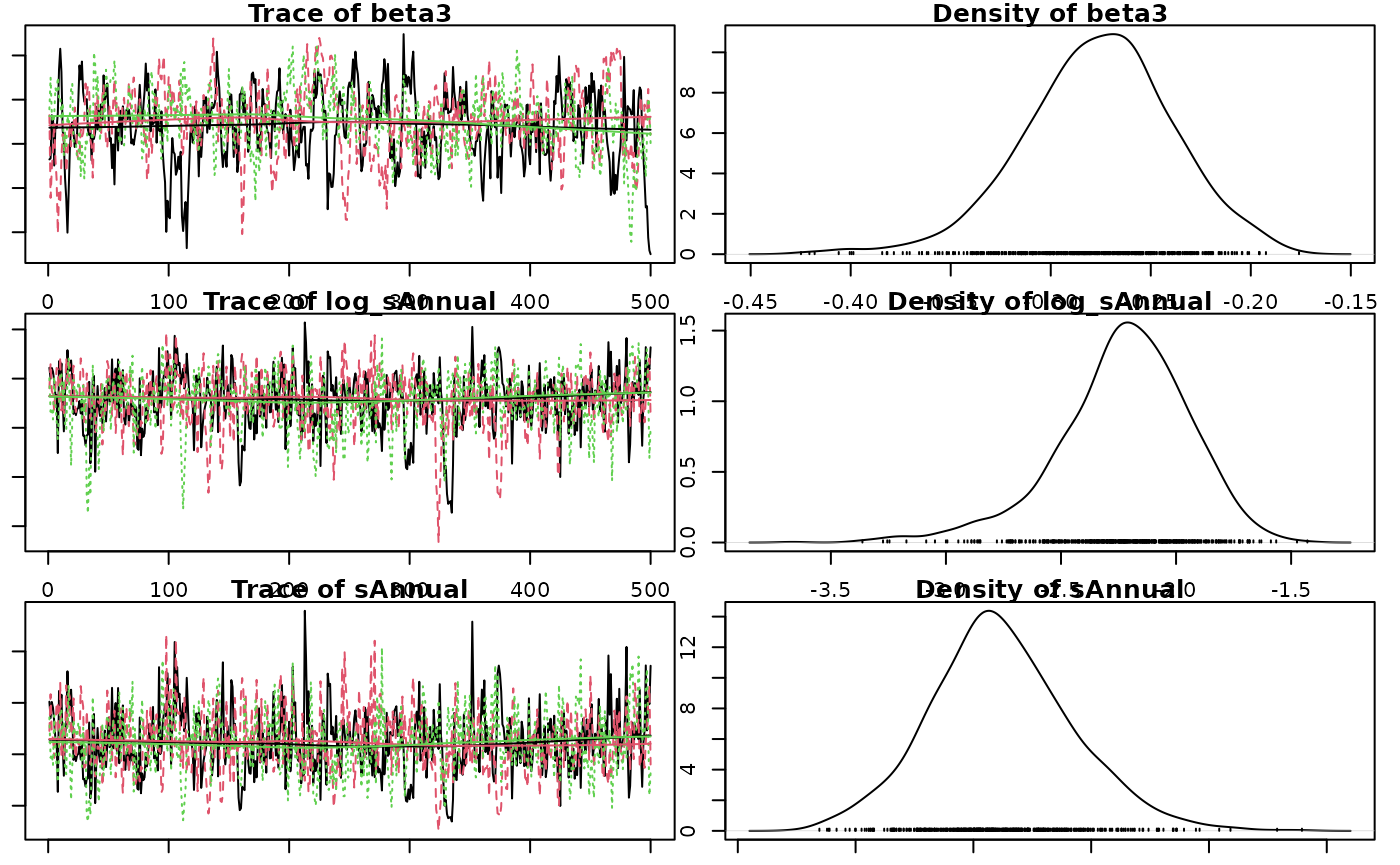
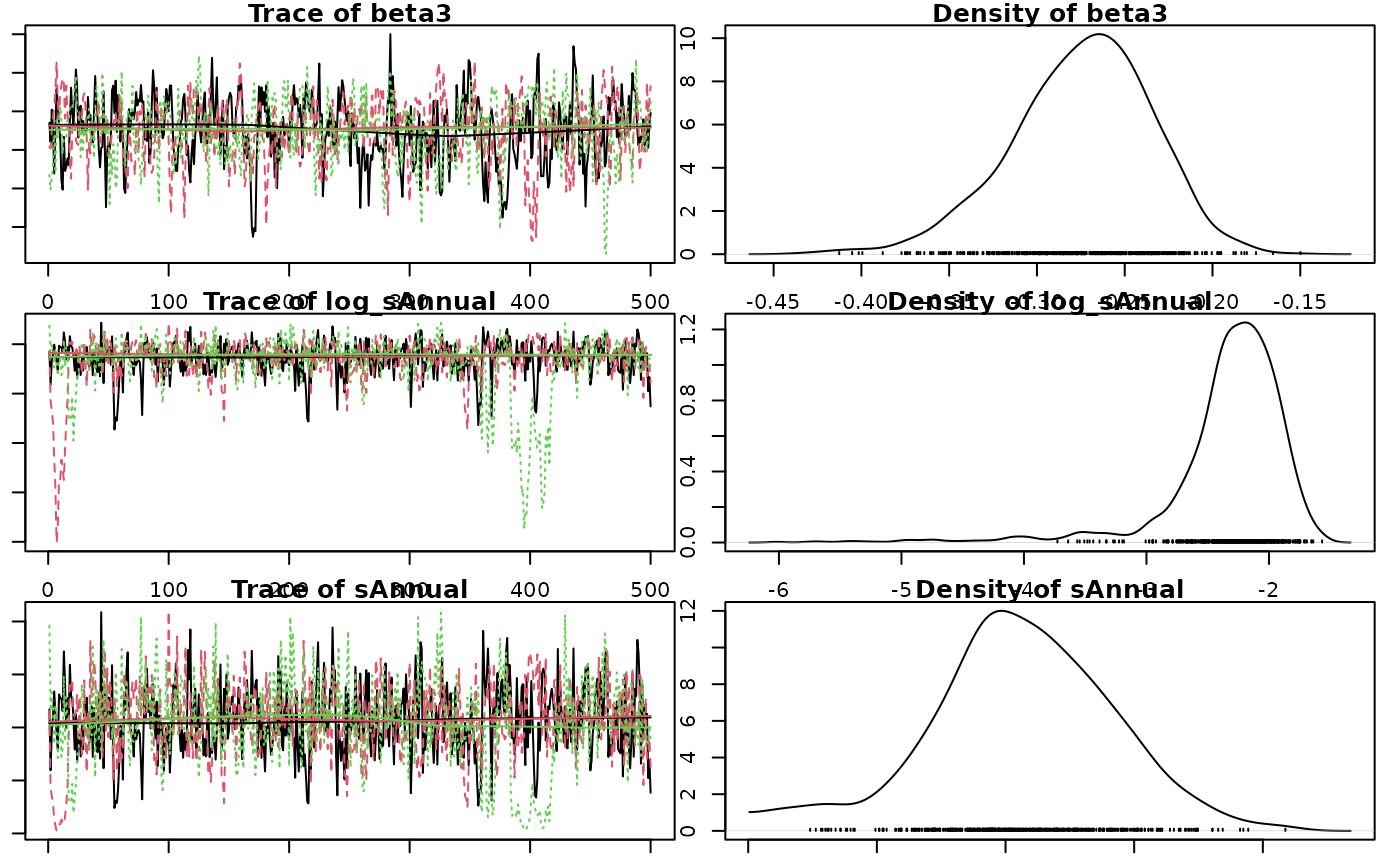
Built site for jmbr@0.0.0.9121: c901a26

diff --git a/articles/jmbr.html b/articles/jmbr.html
@@ -32,7 +32,7 @@
       </button>
       <span class="navbar-brand">
         <a class="navbar-link" href="../index.html">jmbr</a>
-        <span class="version label label-default" data-toggle="tooltip" data-placement="bottom" title="">0.0.0.9120</span>
+        <span class="version label label-default" data-toggle="tooltip" data-placement="bottom" title="">0.0.0.9121</span>
       </span>
     </div>
 
@@ -300,14 +300,14 @@ value and discarding all other values.</p>
 <span><span class="co">#&gt; <span style="color: #949494;"># A tibble: 1 × 8</span></span></span>
 <span><span class="co">#&gt;       n     K nchains niters nthin   ess  rhat converged</span></span>
 <span><span class="co">#&gt;   <span style="color: #949494; font-style: italic;">&lt;int&gt;</span> <span style="color: #949494; font-style: italic;">&lt;int&gt;</span>   <span style="color: #949494; font-style: italic;">&lt;int&gt;</span>  <span style="color: #949494; font-style: italic;">&lt;int&gt;</span> <span style="color: #949494; font-style: italic;">&lt;int&gt;</span> <span style="color: #949494; font-style: italic;">&lt;int&gt;</span> <span style="color: #949494; font-style: italic;">&lt;dbl&gt;</span> <span style="color: #949494; font-style: italic;">&lt;lgl&gt;</span>    </span></span>
-<span><span class="co">#&gt; <span style="color: #BCBCBC;">1</span>    40     6       3    500    10   219  1.01 TRUE</span></span>
+<span><span class="co">#&gt; <span style="color: #BCBCBC;">1</span>    40     6       3    500    10   134  1.02 FALSE</span></span>
 <span><span class="co">#&gt; Warning in value[[3L]](cond): beep() could not play the sound due to the following error:</span></span>
 <span><span class="co">#&gt; Error in play.default(x, rate, ...): no audio drivers are available</span></span>
 <span><span class="va">analysis</span> <span class="op">&lt;-</span> <span class="fu"><a href="https://rdrr.io/pkg/embr/man/reanalyse.html" class="external-link">reanalyse</a></span><span class="op">(</span><span class="va">analysis</span><span class="op">)</span></span>
 <span><span class="co">#&gt; <span style="color: #949494;"># A tibble: 1 × 8</span></span></span>
 <span><span class="co">#&gt;       n     K nchains niters nthin   ess  rhat converged</span></span>
 <span><span class="co">#&gt;   <span style="color: #949494; font-style: italic;">&lt;int&gt;</span> <span style="color: #949494; font-style: italic;">&lt;int&gt;</span>   <span style="color: #949494; font-style: italic;">&lt;int&gt;</span>  <span style="color: #949494; font-style: italic;">&lt;int&gt;</span> <span style="color: #949494; font-style: italic;">&lt;int&gt;</span> <span style="color: #949494; font-style: italic;">&lt;int&gt;</span> <span style="color: #949494; font-style: italic;">&lt;dbl&gt;</span> <span style="color: #949494; font-style: italic;">&lt;lgl&gt;</span>    </span></span>
-<span><span class="co">#&gt; <span style="color: #BCBCBC;">1</span>    40     6       3    500    10   219  1.01 TRUE</span></span>
+<span><span class="co">#&gt; <span style="color: #BCBCBC;">1</span>    40     6       3    500    20   291  1.02 TRUE</span></span>
 <span><span class="co">#&gt; Warning in value[[3L]](cond): beep() could not play the sound due to the following error:</span></span>
 <span><span class="co">#&gt; Error in play.default(x, rate, ...): no audio drivers are available</span></span></code></pre></div>
 <p><strong>Analysis Table:</strong></p>
@@ -357,12 +357,12 @@ between- and within-chain estimates for model parameters.
 <span><span class="co">#&gt; <span style="color: #949494;"># A tibble: 6 × 7</span></span></span>
 <span><span class="co">#&gt;   term        estimate     sd  zscore   lower   upper   pvalue</span></span>
 <span><span class="co">#&gt;   <span style="color: #949494; font-style: italic;">&lt;term&gt;</span>         <span style="color: #949494; font-style: italic;">&lt;dbl&gt;</span>  <span style="color: #949494; font-style: italic;">&lt;dbl&gt;</span>   <span style="color: #949494; font-style: italic;">&lt;dbl&gt;</span>   <span style="color: #949494; font-style: italic;">&lt;dbl&gt;</span>   <span style="color: #949494; font-style: italic;">&lt;dbl&gt;</span>    <span style="color: #949494; font-style: italic;">&lt;dbl&gt;</span></span></span>
-<span><span class="co">#&gt; <span style="color: #BCBCBC;">1</span> alpha         4.26   0.039<span style="text-decoration: underline;">8</span> 107.     4.18    4.34   0.000<span style="text-decoration: underline;">666</span></span></span>
-<span><span class="co">#&gt; <span style="color: #BCBCBC;">2</span> beta1         1.20   0.074<span style="text-decoration: underline;">8</span>  16.1    1.07    1.36   0.000<span style="text-decoration: underline;">666</span></span></span>
-<span><span class="co">#&gt; <span style="color: #BCBCBC;">3</span> beta2        -<span style="color: #BB0000;">0.018</span><span style="color: #BB0000; text-decoration: underline;">7</span> 0.029<span style="text-decoration: underline;">9</span>  -<span style="color: #BB0000;">0.614</span> -<span style="color: #BB0000;">0.074</span><span style="color: #BB0000; text-decoration: underline;">5</span>  0.041<span style="text-decoration: underline;">2</span> 0.540   </span></span>
-<span><span class="co">#&gt; <span style="color: #BCBCBC;">4</span> beta3        -<span style="color: #BB0000;">0.275</span>  0.037<span style="text-decoration: underline;">6</span>  -<span style="color: #BB0000;">7.35</span>  -<span style="color: #BB0000;">0.355</span>  -<span style="color: #BB0000;">0.204</span>  0.000<span style="text-decoration: underline;">666</span></span></span>
-<span><span class="co">#&gt; <span style="color: #BCBCBC;">5</span> log_sAnnual  -<span style="color: #BB0000;">2.21</span>   0.290   -<span style="color: #BB0000;">7.69</span>  -<span style="color: #BB0000;">2.91</span>   -<span style="color: #BB0000;">1.74</span>   0.000<span style="text-decoration: underline;">666</span></span></span>
-<span><span class="co">#&gt; <span style="color: #BCBCBC;">6</span> sAnnual       0.110  0.030<span style="text-decoration: underline;">3</span>   3.69   0.054<span style="text-decoration: underline;">7</span>  0.175  0.000<span style="text-decoration: underline;">666</span></span></span></code></pre></div>
+<span><span class="co">#&gt; <span style="color: #BCBCBC;">1</span> alpha         4.26   0.038<span style="text-decoration: underline;">8</span> 110.     4.18    4.34   0.000<span style="text-decoration: underline;">666</span></span></span>
+<span><span class="co">#&gt; <span style="color: #BCBCBC;">2</span> beta1         1.19   0.078<span style="text-decoration: underline;">6</span>  15.2    1.06    1.37   0.000<span style="text-decoration: underline;">666</span></span></span>
+<span><span class="co">#&gt; <span style="color: #BCBCBC;">3</span> beta2        -<span style="color: #BB0000;">0.017</span><span style="color: #BB0000; text-decoration: underline;">7</span> 0.030<span style="text-decoration: underline;">0</span>  -<span style="color: #BB0000;">0.605</span> -<span style="color: #BB0000;">0.077</span><span style="color: #BB0000; text-decoration: underline;">2</span>  0.040<span style="text-decoration: underline;">1</span> 0.543   </span></span>
+<span><span class="co">#&gt; <span style="color: #BCBCBC;">4</span> beta3        -<span style="color: #BB0000;">0.272</span>  0.040<span style="text-decoration: underline;">1</span>  -<span style="color: #BB0000;">6.85</span>  -<span style="color: #BB0000;">0.360</span>  -<span style="color: #BB0000;">0.205</span>  0.000<span style="text-decoration: underline;">666</span></span></span>
+<span><span class="co">#&gt; <span style="color: #BCBCBC;">5</span> log_sAnnual  -<span style="color: #BB0000;">2.25</span>   0.511   -<span style="color: #BB0000;">4.57</span>  -<span style="color: #BB0000;">3.87</span>   -<span style="color: #BB0000;">1.75</span>   0.000<span style="text-decoration: underline;">666</span></span></span>
+<span><span class="co">#&gt; <span style="color: #BCBCBC;">6</span> sAnnual       0.106  0.036<span style="text-decoration: underline;">0</span>   2.94   0.020<span style="text-decoration: underline;">8</span>  0.174  0.000<span style="text-decoration: underline;">666</span></span></span></code></pre></div>
 <p>The estimate is the <strong>median</strong> by default.</p>
 <p>The zscore is
 <math display="inline" xmlns="http://www.w3.org/1998/Math/MathML"><semantics><mrow><mi>m</mi><mi>e</mi><mi>a</mi><mi>n</mi><mi>/</mi><mi>s</mi><mi>d</mi></mrow><annotation encoding="application/x-tex">mean / sd</annotation></semantics></math>.</p>
@@ -372,11 +372,11 @@ between- and within-chain estimates for model parameters.
 <span><span class="co">#&gt;   term        estimate   lower   upper svalue</span></span>
 <span><span class="co">#&gt;   <span style="color: #949494; font-style: italic;">&lt;term&gt;</span>         <span style="color: #949494; font-style: italic;">&lt;dbl&gt;</span>   <span style="color: #949494; font-style: italic;">&lt;dbl&gt;</span>   <span style="color: #949494; font-style: italic;">&lt;dbl&gt;</span>  <span style="color: #949494; font-style: italic;">&lt;dbl&gt;</span></span></span>
 <span><span class="co">#&gt; <span style="color: #BCBCBC;">1</span> alpha         4.26    4.18    4.34   10.6  </span></span>
-<span><span class="co">#&gt; <span style="color: #BCBCBC;">2</span> beta1         1.20    1.07    1.36   10.6  </span></span>
-<span><span class="co">#&gt; <span style="color: #BCBCBC;">3</span> beta2        -<span style="color: #BB0000;">0.018</span><span style="color: #BB0000; text-decoration: underline;">7</span> -<span style="color: #BB0000;">0.074</span><span style="color: #BB0000; text-decoration: underline;">5</span>  0.041<span style="text-decoration: underline;">2</span>  0.888</span></span>
-<span><span class="co">#&gt; <span style="color: #BCBCBC;">4</span> beta3        -<span style="color: #BB0000;">0.275</span>  -<span style="color: #BB0000;">0.355</span>  -<span style="color: #BB0000;">0.204</span>  10.6  </span></span>
-<span><span class="co">#&gt; <span style="color: #BCBCBC;">5</span> log_sAnnual  -<span style="color: #BB0000;">2.21</span>   -<span style="color: #BB0000;">2.91</span>   -<span style="color: #BB0000;">1.74</span>   10.6  </span></span>
-<span><span class="co">#&gt; <span style="color: #BCBCBC;">6</span> sAnnual       0.110   0.054<span style="text-decoration: underline;">7</span>  0.175  10.6</span></span></code></pre></div>
+<span><span class="co">#&gt; <span style="color: #BCBCBC;">2</span> beta1         1.19    1.06    1.37   10.6  </span></span>
+<span><span class="co">#&gt; <span style="color: #BCBCBC;">3</span> beta2        -<span style="color: #BB0000;">0.017</span><span style="color: #BB0000; text-decoration: underline;">7</span> -<span style="color: #BB0000;">0.077</span><span style="color: #BB0000; text-decoration: underline;">2</span>  0.040<span style="text-decoration: underline;">1</span>  0.881</span></span>
+<span><span class="co">#&gt; <span style="color: #BCBCBC;">4</span> beta3        -<span style="color: #BB0000;">0.272</span>  -<span style="color: #BB0000;">0.360</span>  -<span style="color: #BB0000;">0.205</span>  10.6  </span></span>
+<span><span class="co">#&gt; <span style="color: #BCBCBC;">5</span> log_sAnnual  -<span style="color: #BB0000;">2.25</span>   -<span style="color: #BB0000;">3.87</span>   -<span style="color: #BB0000;">1.75</span>   10.6  </span></span>
+<span><span class="co">#&gt; <span style="color: #BCBCBC;">6</span> sAnnual       0.106   0.020<span style="text-decoration: underline;">8</span>  0.174  10.6</span></span></code></pre></div>
 <p>The s-value is the <strong>suprisal</strong> value, which is a
 measure of directionality with respect to zero.</p>
 <p>The s-value is zero (unsurprising) when <em>p-value</em> = 1.0 and

diff --git a/news/index.html b/news/index.html
@@ -17,7 +17,7 @@
       </button>
       <span class="navbar-brand">
         <a class="navbar-link" href="../index.html">jmbr</a>
-        <span class="version label label-default" data-toggle="tooltip" data-placement="bottom" title="">0.0.0.9120</span>
+        <span class="version label label-default" data-toggle="tooltip" data-placement="bottom" title="">0.0.0.9121</span>
       </span>
     </div>
 
@@ -50,6 +50,10 @@
       <small>Source: <a href="https://github.com/poissonconsulting/jmbr/blob/main/NEWS.md" class="external-link"><code>NEWS.md</code></a></small>
     </div>
 
+    <div class="section level2">
+<h2 class="page-header" data-toc-text="0.0.0.9121" id="jmbr-0009121-2024-11-02">jmbr 0.0.0.9121 (2024-11-02)<a class="anchor" aria-label="anchor" href="#jmbr-0009121-2024-11-02"></a></h2>
+<ul><li>Internal changes only.</li>
+</ul></div>
     <div class="section level2">
 <h2 class="page-header" data-toc-text="0.0.0.9120" id="jmbr-0009120-2024-10-28">jmbr 0.0.0.9120 (2024-10-28)<a class="anchor" aria-label="anchor" href="#jmbr-0009120-2024-10-28"></a></h2>
 <div class="section level3">

diff --git a/articles/index.html b/articles/index.html
@@ -17,7 +17,7 @@
       </button>
       <span class="navbar-brand">
         <a class="navbar-link" href="../index.html">jmbr</a>
-        <span class="version label label-default" data-toggle="tooltip" data-placement="bottom" title="">0.0.0.9120</span>
+        <span class="version label label-default" data-toggle="tooltip" data-placement="bottom" title="">0.0.0.9121</span>
       </span>
     </div>
 

diff --git a/reference/index.html b/reference/index.html
@@ -17,7 +17,7 @@
       </button>
       <span class="navbar-brand">
         <a class="navbar-link" href="../index.html">jmbr</a>
-        <span class="version label label-default" data-toggle="tooltip" data-placement="bottom" title="">0.0.0.9120</span>
+        <span class="version label label-default" data-toggle="tooltip" data-placement="bottom" title="">0.0.0.9121</span>
       </span>
     </div>
 

diff --git a/reference/is.jmb_analysis.html b/reference/is.jmb_analysis.html
@@ -17,7 +17,7 @@
       </button>
       <span class="navbar-brand">
         <a class="navbar-link" href="../index.html">jmbr</a>
-        <span class="version label label-default" data-toggle="tooltip" data-placement="bottom" title="">0.0.0.9120</span>
+        <span class="version label label-default" data-toggle="tooltip" data-placement="bottom" title="">0.0.0.9121</span>
       </span>
     </div>
 

diff --git a/reference/is.jmb_code.html b/reference/is.jmb_code.html
@@ -17,7 +17,7 @@
       </button>
       <span class="navbar-brand">
         <a class="navbar-link" href="../index.html">jmbr</a>
-        <span class="version label label-default" data-toggle="tooltip" data-placement="bottom" title="">0.0.0.9120</span>
+        <span class="version label label-default" data-toggle="tooltip" data-placement="bottom" title="">0.0.0.9121</span>
       </span>
     </div>
 

diff --git a/reference/is.jmb_model.html b/reference/is.jmb_model.html
@@ -17,7 +17,7 @@
       </button>
       <span class="navbar-brand">
         <a class="navbar-link" href="../index.html">jmbr</a>
-        <span class="version label label-default" data-toggle="tooltip" data-placement="bottom" title="">0.0.0.9120</span>
+        <span class="version label label-default" data-toggle="tooltip" data-placement="bottom" title="">0.0.0.9121</span>
       </span>
     </div>
 

diff --git a/reference/jmbr-package.html b/reference/jmbr-package.html
@@ -17,7 +17,7 @@
       </button>
       <span class="navbar-brand">
         <a class="navbar-link" href="../index.html">jmbr</a>
-        <span class="version label label-default" data-toggle="tooltip" data-placement="bottom" title="">0.0.0.9120</span>
+        <span class="version label label-default" data-toggle="tooltip" data-placement="bottom" title="">0.0.0.9121</span>
       </span>
     </div>
 

diff --git a/404.html b/404.html
@@ -32,7 +32,7 @@
       </button>
       <span class="navbar-brand">
         <a class="navbar-link" href="index.html">jmbr</a>
-        <span class="version label label-default" data-toggle="tooltip" data-placement="bottom" title="">0.0.0.9120</span>
+        <span class="version label label-default" data-toggle="tooltip" data-placement="bottom" title="">0.0.0.9121</span>
       </span>
     </div>
 

diff --git a/CODE_OF_CONDUCT.html b/CODE_OF_CONDUCT.html
@@ -17,7 +17,7 @@
       </button>
       <span class="navbar-brand">
         <a class="navbar-link" href="index.html">jmbr</a>
-        <span class="version label label-default" data-toggle="tooltip" data-placement="bottom" title="">0.0.0.9120</span>
+        <span class="version label label-default" data-toggle="tooltip" data-placement="bottom" title="">0.0.0.9121</span>
       </span>
     </div>
 

diff --git a/CONTRIBUTING.html b/CONTRIBUTING.html
@@ -17,7 +17,7 @@
       </button>
       <span class="navbar-brand">
         <a class="navbar-link" href="index.html">jmbr</a>
-        <span class="version label label-default" data-toggle="tooltip" data-placement="bottom" title="">0.0.0.9120</span>
+        <span class="version label label-default" data-toggle="tooltip" data-placement="bottom" title="">0.0.0.9121</span>
       </span>
     </div>
 

diff --git a/LICENSE-text.html b/LICENSE-text.html
@@ -17,7 +17,7 @@
       </button>
       <span class="navbar-brand">
         <a class="navbar-link" href="index.html">jmbr</a>
-        <span class="version label label-default" data-toggle="tooltip" data-placement="bottom" title="">0.0.0.9120</span>
+        <span class="version label label-default" data-toggle="tooltip" data-placement="bottom" title="">0.0.0.9121</span>
       </span>
     </div>
 
